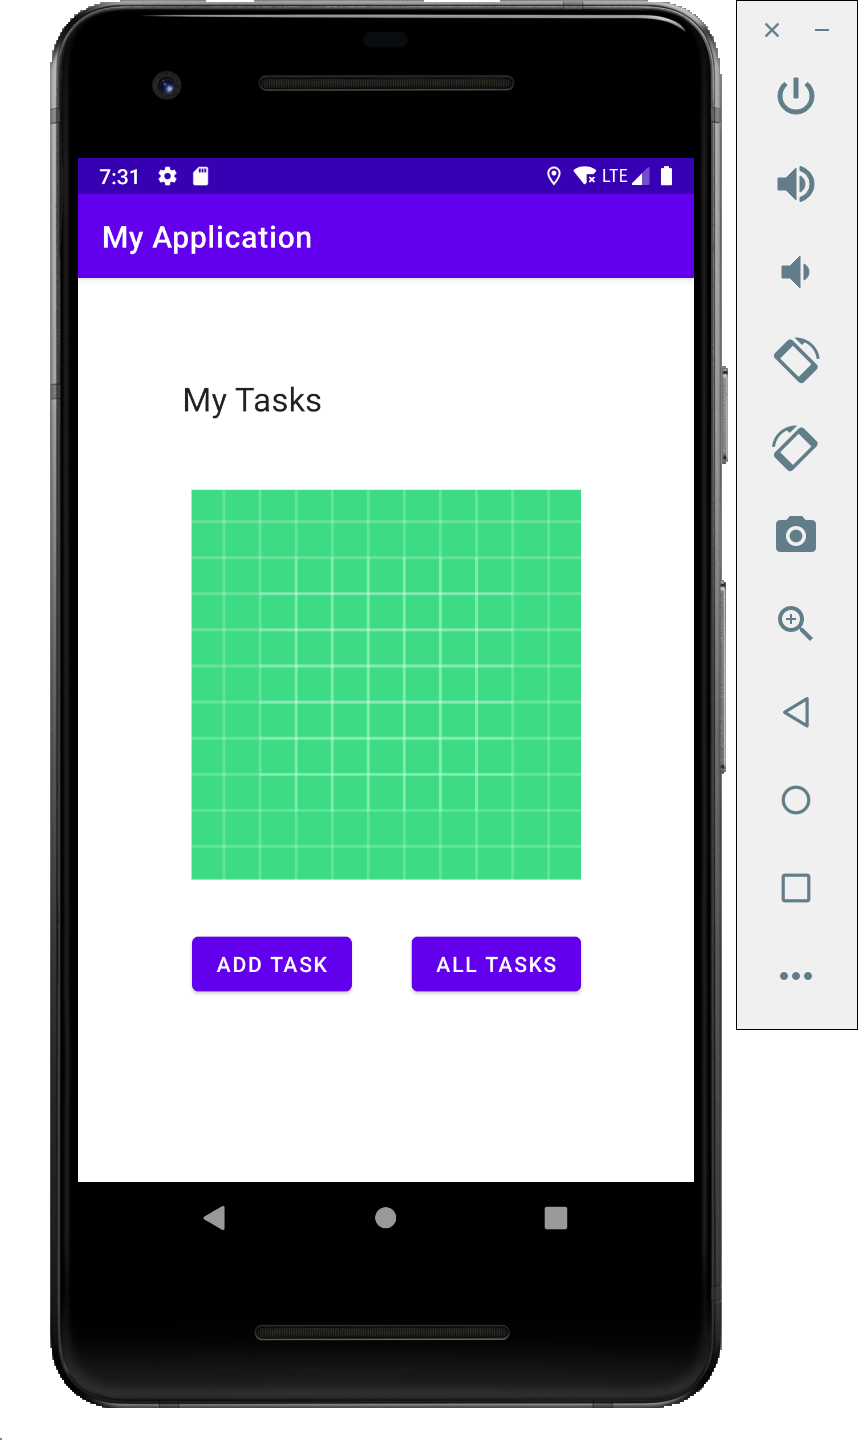
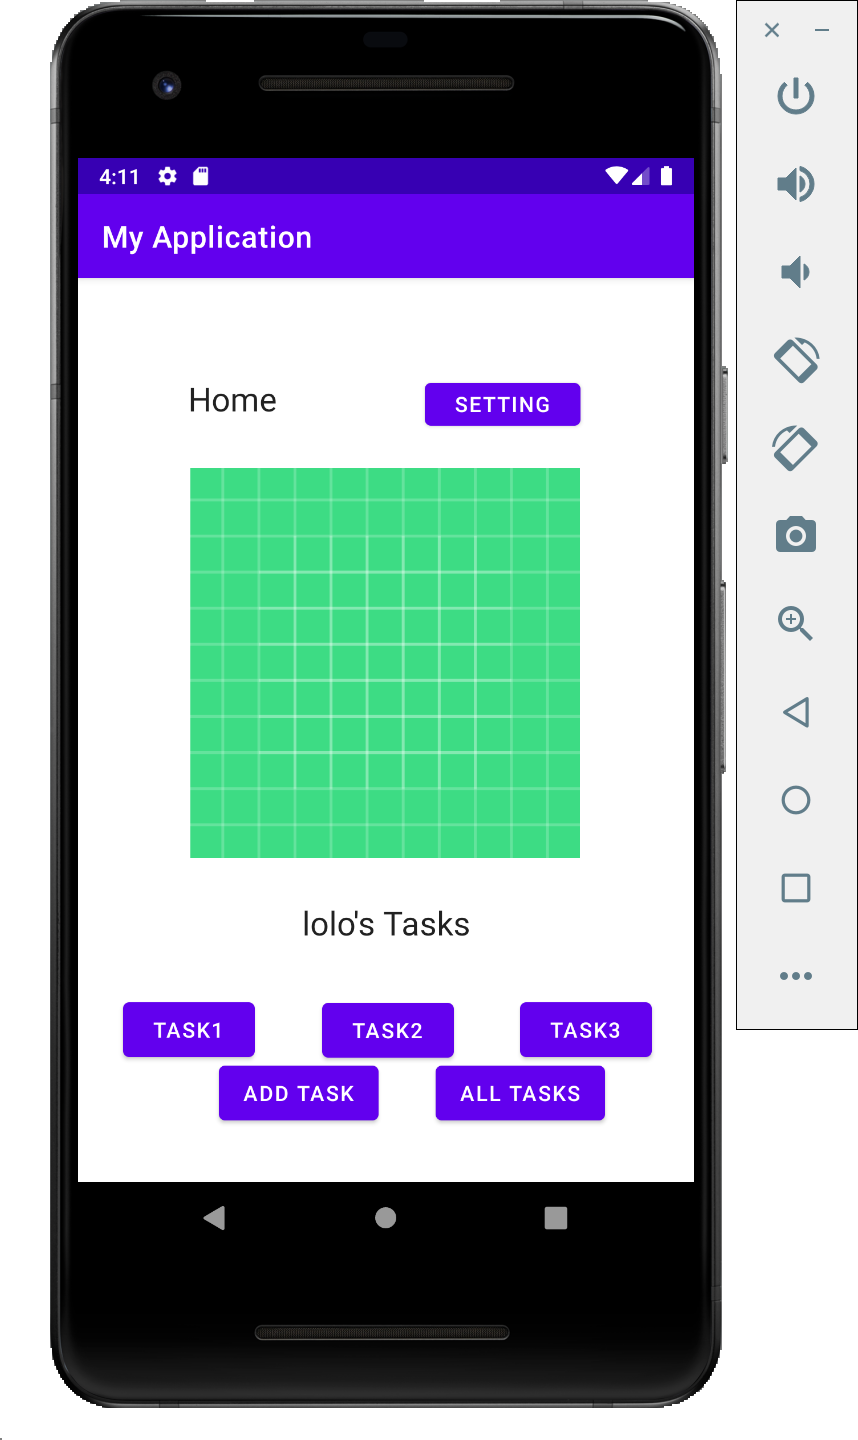
lab 27 done

Changed region(s): [[0.1212, 0.25, 0.7576, 0.7812], [0.6364, 0.0938, 0.7273, 0.125], [0.1212, 0.0938, 0.1515, 0.125]]

diff --git a/app/src/main/java/com/example/myapplication/MainActivity.java b/app/src/main/java/com/example/myapplication/MainActivity.java
@@ -3,9 +3,12 @@ package com.example.myapplication;
 import androidx.appcompat.app.AppCompatActivity;
 
 import android.content.Intent;
+import android.content.SharedPreferences;
 import android.os.Bundle;
+import android.preference.PreferenceManager;
 import android.view.View;
 import android.widget.Button;
+import android.widget.TextView;
 
 public class MainActivity extends AppCompatActivity {
 
@@ -29,6 +32,51 @@ public class MainActivity extends AppCompatActivity {
                 startActivity(toAddTasks);
             }
         });
+        Button task1 = findViewById(R.id.task1);
+        task1.setOnClickListener(new View.OnClickListener() {
+            @Override
+            public void onClick(View view) {
+                Intent toTask1 = new Intent(MainActivity.this,TaskDetail.class);
+                toTask1.putExtra("taskName","Task 1");
+                startActivity(toTask1);
+            }
+        });
+        Button task2 = findViewById(R.id.task2);
+        task2.setOnClickListener(new View.OnClickListener() {
+            @Override
+            public void onClick(View view) {
+                Intent toTask2 = new Intent(MainActivity.this,TaskDetail.class);
+                toTask2.putExtra("taskName","Task 2");
+                startActivity(toTask2);
+            }
+        });
+        Button task3 = findViewById(R.id.task3);
+        task3.setOnClickListener(new View.OnClickListener() {
+            @Override
+            public void onClick(View view) {
+                Intent toTask3 = new Intent(MainActivity.this,TaskDetail.class);
+                toTask3.putExtra("taskName","Task 3");
+                startActivity(toTask3);
+            }
+        });
+        Button settings = findViewById(R.id.settingsButton);
+        settings.setOnClickListener(new View.OnClickListener() {
+            @Override
+            public void onClick(View view) {
+                Intent toSettings = new Intent(MainActivity.this,Settings.class);
+                startActivity(toSettings);
+            }
+        });
+    }
+    @Override
+    protected void onResume() {
+        super.onResume();
+
+        String usernameMessage = "\'s Tasks";
+        SharedPreferences sharedPreferences = PreferenceManager.getDefaultSharedPreferences(MainActivity.this);
+        String username = sharedPreferences.getString("username", "username");
+        TextView usernameField = findViewById(R.id.usernameView);
+        usernameField.setText(username + usernameMessage);
     }
 }
 

diff --git a/app/src/main/java/com/example/myapplication/Settings.java b/app/src/main/java/com/example/myapplication/Settings.java
@@ -1,0 +1,38 @@
+package com.example.myapplication;
+
+import androidx.appcompat.app.AppCompatActivity;
+
+import android.content.Intent;
+import android.content.SharedPreferences;
+import android.os.Bundle;
+import android.preference.PreferenceManager;
+import android.widget.Button;
+import android.widget.EditText;
+
+public class Settings extends AppCompatActivity {
+
+    @Override
+    protected void onCreate(Bundle savedInstanceState) {
+        super.onCreate(savedInstanceState);
+        setContentView(R.layout.activity_settings);
+
+        Button backToMain = findViewById(R.id.backButton);
+        backToMain.setOnClickListener(view -> {
+            Intent backToMainIntent = new Intent(Settings.this, MainActivity.class);
+            startActivity(backToMainIntent);
+        });
+
+        Button saveButton = findViewById(R.id.saveButton);
+        saveButton.setOnClickListener(view -> {
+            SharedPreferences sharedPreferences = PreferenceManager.getDefaultSharedPreferences(Settings.this);
+            SharedPreferences.Editor sharedPreferencesEditor = sharedPreferences.edit();
+            EditText usernameField = findViewById(R.id.usernameEntry);
+            String username = usernameField.getText().toString();
+            sharedPreferencesEditor.putString("username", username);
+            sharedPreferencesEditor.apply();
+
+            Intent toMain = new Intent(Settings.this, MainActivity.class);
+            startActivity(toMain);
+        });
+    }
+}

diff --git a/app/src/main/java/com/example/myapplication/TaskDetail.java b/app/src/main/java/com/example/myapplication/TaskDetail.java
@@ -1,0 +1,22 @@
+package com.example.myapplication;
+
+import androidx.appcompat.app.AppCompatActivity;
+
+import android.content.Intent;
+import android.os.Bundle;
+import android.widget.Button;
+import android.widget.TextView;
+
+public class TaskDetail extends AppCompatActivity {
+
+    @Override
+    protected void onCreate(Bundle savedInstanceState) {
+        super.onCreate(savedInstanceState);
+        setContentView(R.layout.activity_task_detail);
+
+        Intent intent = getIntent();
+        String header = intent.getExtras().getString("taskName");
+        TextView headerViews = findViewById(R.id.detailHead);
+        headerViews.setText(header);
+    }
+}

diff --git a/README.md b/README.md
@@ -1,13 +1,28 @@
 # Task-Master
 
 ## Description 
-Tas-Master is an application where you can organize tasks and also add tasks to the app 
 
-## version 1.0.0
+Task-Master is an application where you can organize tasks and also add tasks to the app 
 
-- the home screen and it has two buttons one to add a task and the other to see all tasks  
 ![home screen](screenshots/homeScreen.png)  
+
+### version 1.0.0
+
 - the add task when you click it opens a form to add a task  
 ![add task](screenshots/addTask.png)  
 - the all tasks where you can see all the tasks  
 ![all tasks](screenshots/allTasks.png)  
+
+### version 1.0.1
+
+- added a new feature which is the settings where you can write your name and save then it will show the user name in the home screen  
+
+![settings](screenshots/settings.png)  
+
+- added 3 new tasks when you press on them they will show you the details of that task  
+
+![task](screenshots/task.png)  
+
+## Devs 
+
+- **Ahmed Bani-Salameh**
